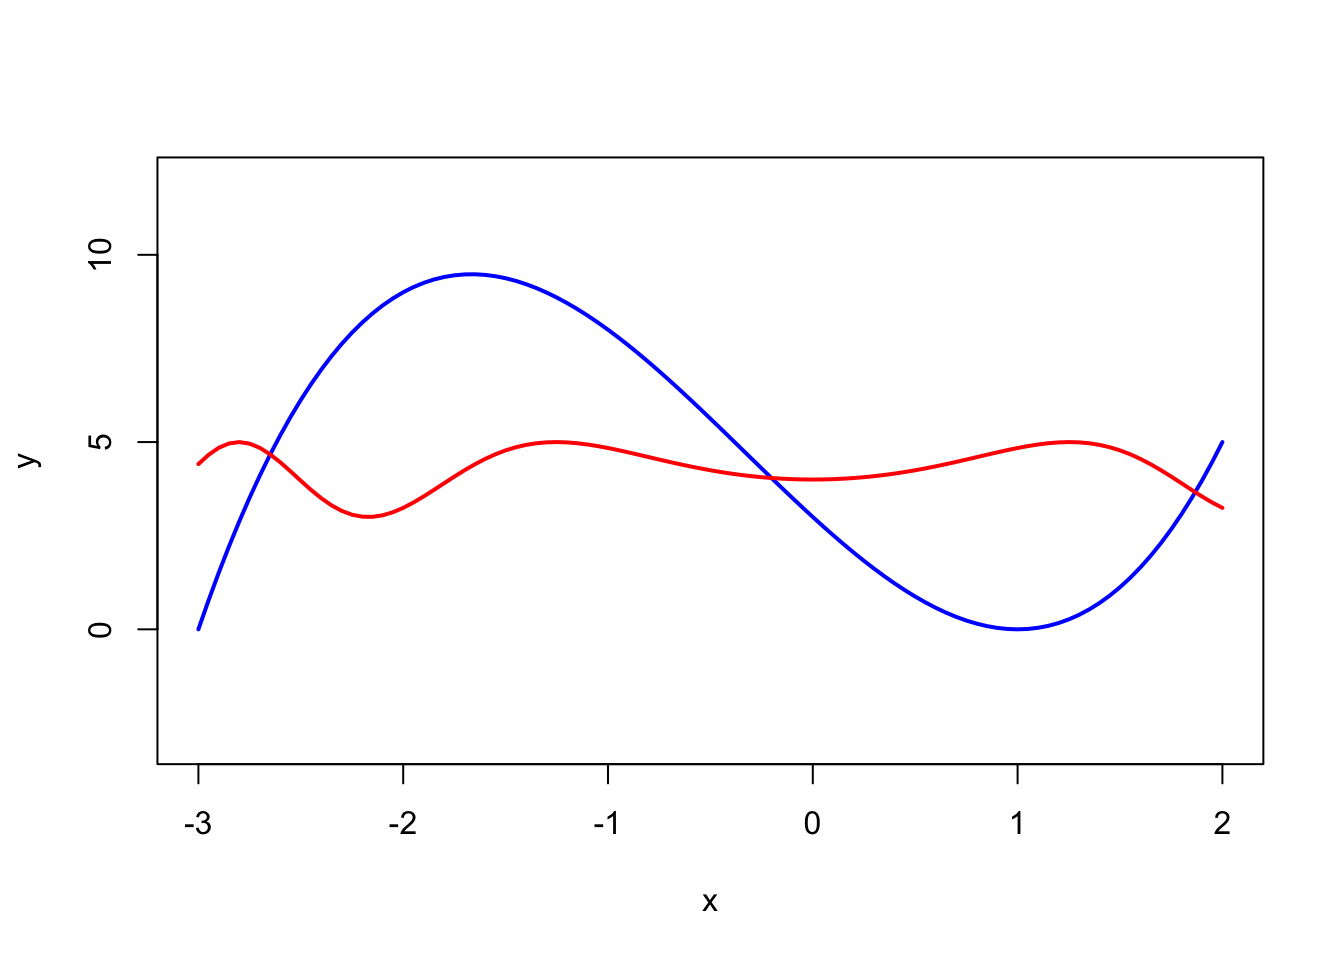
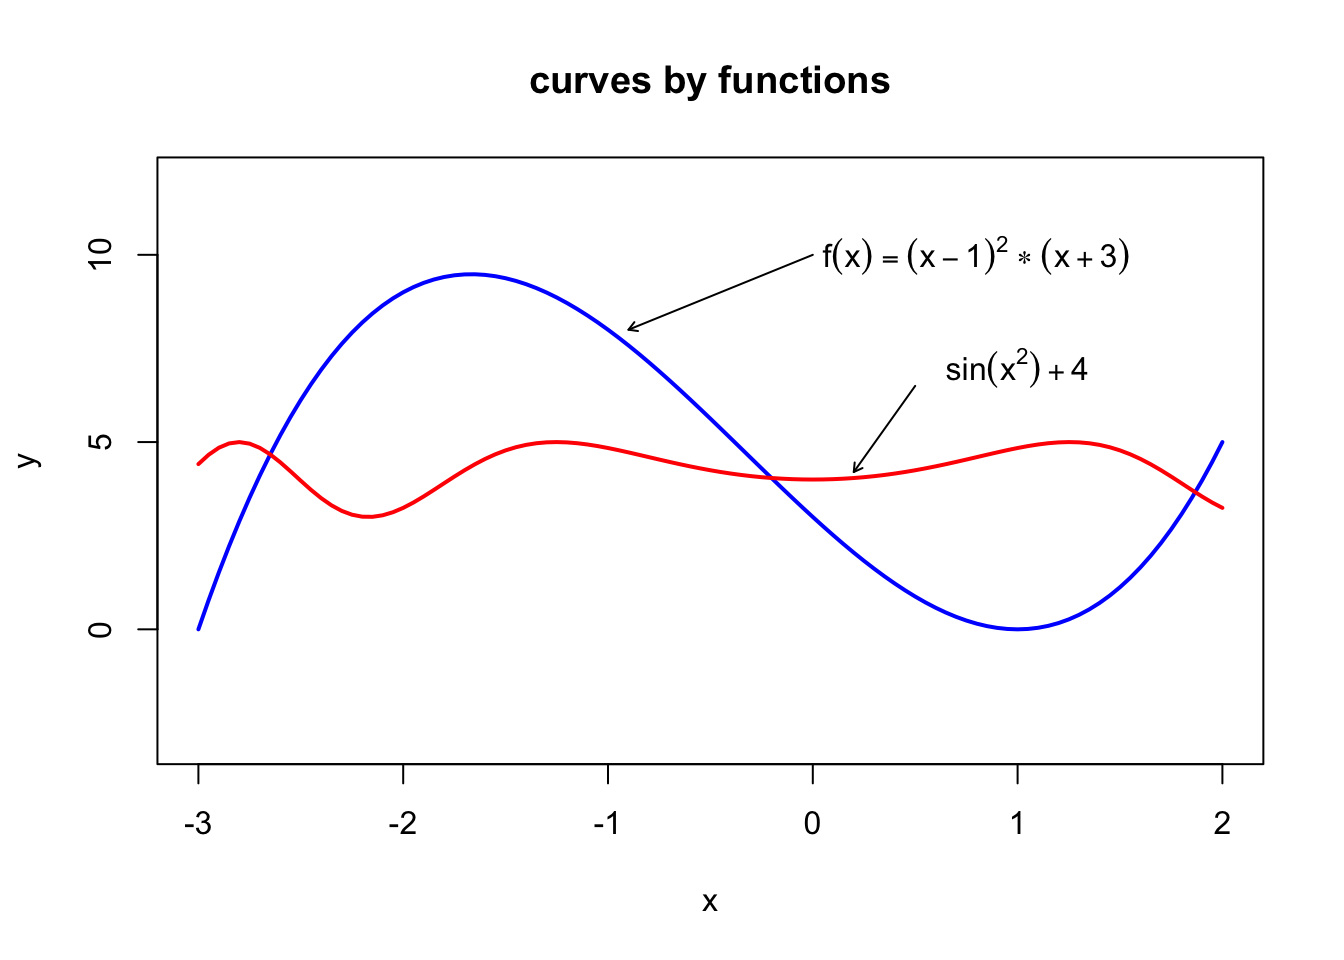
7

diff --git a/ggplots/curves.html b/ggplots/curves.html
@@ -474,7 +474,8 @@ pre > code.sourceCode > span > a:first-child::before { text-decoration: underlin
 <section id="libraries" class="level2" data-number="1">
 <h2 data-number="1" class="anchored" data-anchor-id="libraries"><span class="header-section-number">1</span> Libraries</h2>
 <div class="cell">
-<div class="sourceCode cell-code" id="cb1"><pre class="sourceCode r code-with-copy"><code class="sourceCode r"><span id="cb1-1"><a href="#cb1-1" aria-hidden="true" tabindex="-1"></a><span class="fu">library</span>(tidyverse)  </span></code><button title="Copy to Clipboard" class="code-copy-button"><i class="bi"></i></button></pre></div>
+<div class="sourceCode cell-code" id="cb1"><pre class="sourceCode r code-with-copy"><code class="sourceCode r"><span id="cb1-1"><a href="#cb1-1" aria-hidden="true" tabindex="-1"></a><span class="fu">library</span>(tidyverse)  </span>
+<span id="cb1-2"><a href="#cb1-2" aria-hidden="true" tabindex="-1"></a><span class="fu">library</span>(latex2exp)</span></code><button title="Copy to Clipboard" class="code-copy-button"><i class="bi"></i></button></pre></div>
 </div>
 </section>
 <section id="baser-curve" class="level2" data-number="2">
@@ -482,8 +483,14 @@ pre > code.sourceCode > span > a:first-child::before { text-decoration: underlin
 <p><code>curve()</code> is a useful baseR function for plotting continuous functions in R. The ggplot equivalent is <code>geom_function()</code> as shown below.</p>
 <div class="cell">
 <div class="sourceCode cell-code" id="cb2"><pre class="sourceCode r code-with-copy"><code class="sourceCode r"><span id="cb2-1"><a href="#cb2-1" aria-hidden="true" tabindex="-1"></a>ylim<span class="ot">=</span><span class="fu">c</span>(<span class="sc">-</span><span class="dv">3</span>,<span class="dv">12</span>)</span>
-<span id="cb2-2"><a href="#cb2-2" aria-hidden="true" tabindex="-1"></a><span class="fu">curve</span>({(x<span class="dv">-1</span>)<span class="sc">^</span><span class="dv">2</span>}<span class="sc">*</span>(x<span class="sc">+</span><span class="dv">3</span>), <span class="at">from=</span><span class="sc">-</span><span class="dv">3</span>, <span class="at">to=</span><span class="dv">2</span>, <span class="at">col=</span><span class="st">"blue"</span>, <span class="at">lwd=</span><span class="dv">2</span>, <span class="at">ylim=</span>ylim, <span class="at">ylab=</span><span class="st">"y"</span>)</span>
-<span id="cb2-3"><a href="#cb2-3" aria-hidden="true" tabindex="-1"></a><span class="fu">curve</span>(<span class="fu">sin</span>(x<span class="sc">^</span><span class="dv">2</span>)<span class="sc">+</span><span class="dv">4</span>, <span class="at">from=</span><span class="sc">-</span><span class="dv">3</span>, <span class="at">to=</span><span class="dv">2</span>, <span class="at">col=</span><span class="st">"red"</span>, <span class="at">lwd=</span><span class="dv">2</span>, <span class="at">add=</span><span class="cn">TRUE</span>)</span></code><button title="Copy to Clipboard" class="code-copy-button"><i class="bi"></i></button></pre></div>
+<span id="cb2-2"><a href="#cb2-2" aria-hidden="true" tabindex="-1"></a><span class="fu">curve</span>({(x<span class="dv">-1</span>)<span class="sc">^</span><span class="dv">2</span>}<span class="sc">*</span>(x<span class="sc">+</span><span class="dv">3</span>), <span class="at">from=</span><span class="sc">-</span><span class="dv">3</span>, <span class="at">to=</span><span class="dv">2</span>, <span class="at">col=</span><span class="st">"blue"</span>, <span class="at">lwd=</span><span class="dv">2</span>, <span class="at">ylim=</span>ylim, <span class="at">ylab=</span><span class="st">"y"</span>,</span>
+<span id="cb2-3"><a href="#cb2-3" aria-hidden="true" tabindex="-1"></a>      <span class="at">main=</span><span class="st">"curves by functions"</span>)</span>
+<span id="cb2-4"><a href="#cb2-4" aria-hidden="true" tabindex="-1"></a><span class="fu">text</span>(<span class="fl">0.8</span>,<span class="dv">10</span>,<span class="at">label=</span><span class="fu">TeX</span>(r<span class="st">'($f(x)=(x-1)^2*(x+3)$)'</span>))</span>
+<span id="cb2-5"><a href="#cb2-5" aria-hidden="true" tabindex="-1"></a><span class="fu">arrows</span>(<span class="dv">0</span>,<span class="dv">10</span>,<span class="sc">-</span><span class="fl">0.9</span>,<span class="dv">8</span>, <span class="at">length=</span>.<span class="dv">05</span>)</span>
+<span id="cb2-6"><a href="#cb2-6" aria-hidden="true" tabindex="-1"></a></span>
+<span id="cb2-7"><a href="#cb2-7" aria-hidden="true" tabindex="-1"></a><span class="fu">curve</span>(<span class="fu">sin</span>(x<span class="sc">^</span><span class="dv">2</span>)<span class="sc">+</span><span class="dv">4</span>, <span class="at">from=</span><span class="sc">-</span><span class="dv">3</span>, <span class="at">to=</span><span class="dv">2</span>, <span class="at">col=</span><span class="st">"red"</span>, <span class="at">lwd=</span><span class="dv">2</span>, <span class="at">add=</span><span class="cn">TRUE</span>)</span>
+<span id="cb2-8"><a href="#cb2-8" aria-hidden="true" tabindex="-1"></a><span class="fu">text</span>(<span class="dv">1</span>,<span class="dv">7</span>,<span class="at">label=</span><span class="fu">expression</span>(<span class="fu">sin</span>(x<span class="sc">^</span><span class="dv">2</span>)<span class="sc">+</span><span class="dv">4</span>))</span>
+<span id="cb2-9"><a href="#cb2-9" aria-hidden="true" tabindex="-1"></a><span class="fu">arrows</span>(<span class="fl">0.5</span>,<span class="fl">6.5</span>,<span class="fl">0.2</span>,<span class="fl">4.2</span>, <span class="at">length=</span>.<span class="dv">05</span>)</span></code><button title="Copy to Clipboard" class="code-copy-button"><i class="bi"></i></button></pre></div>
 <div class="cell-output-display">
 <div>
 <figure class="figure">

diff --git a/test.html b/test.html
@@ -486,8 +486,8 @@ pre > code.sourceCode > span > a:first-child::before { text-decoration: underlin
 2   108   109   110   110   111   113   113   113   113   115   115
 3   118   118   119   121   122   122   127   132   136   140   146</code></pre>
 </div>
-<div class="sourceCode cell-code" id="cb3"><pre class="sourceCode r code-with-copy"><code class="sourceCode r"><span id="cb3-1"><a href="#cb3-1" aria-hidden="true" tabindex="-1"></a>vec <span class="ot">&lt;-</span> <span class="fu">as.vector</span>(<span class="fu">t</span>(x))</span>
-<span id="cb3-2"><a href="#cb3-2" aria-hidden="true" tabindex="-1"></a>vec</span></code><button title="Copy to Clipboard" class="code-copy-button"><i class="bi"></i></button></pre></div>
+<div class="sourceCode cell-code" id="cb3"><pre class="sourceCode r code-with-copy"><code class="sourceCode r"><span id="cb3-1"><a href="#cb3-1" aria-hidden="true" tabindex="-1"></a>v <span class="ot">&lt;-</span> <span class="fu">as.vector</span>(<span class="fu">t</span>(x))</span>
+<span id="cb3-2"><a href="#cb3-2" aria-hidden="true" tabindex="-1"></a>v</span></code><button title="Copy to Clipboard" class="code-copy-button"><i class="bi"></i></button></pre></div>
 <div class="cell-output cell-output-stdout">
 <pre><code> [1]  82  96  99 102 103 103 106 107 108 108 108 108 109 110 110 111 113 113 113
 [20] 113 115 115 118 118 119 121 122 122 127 132 136 140 146</code></pre>
